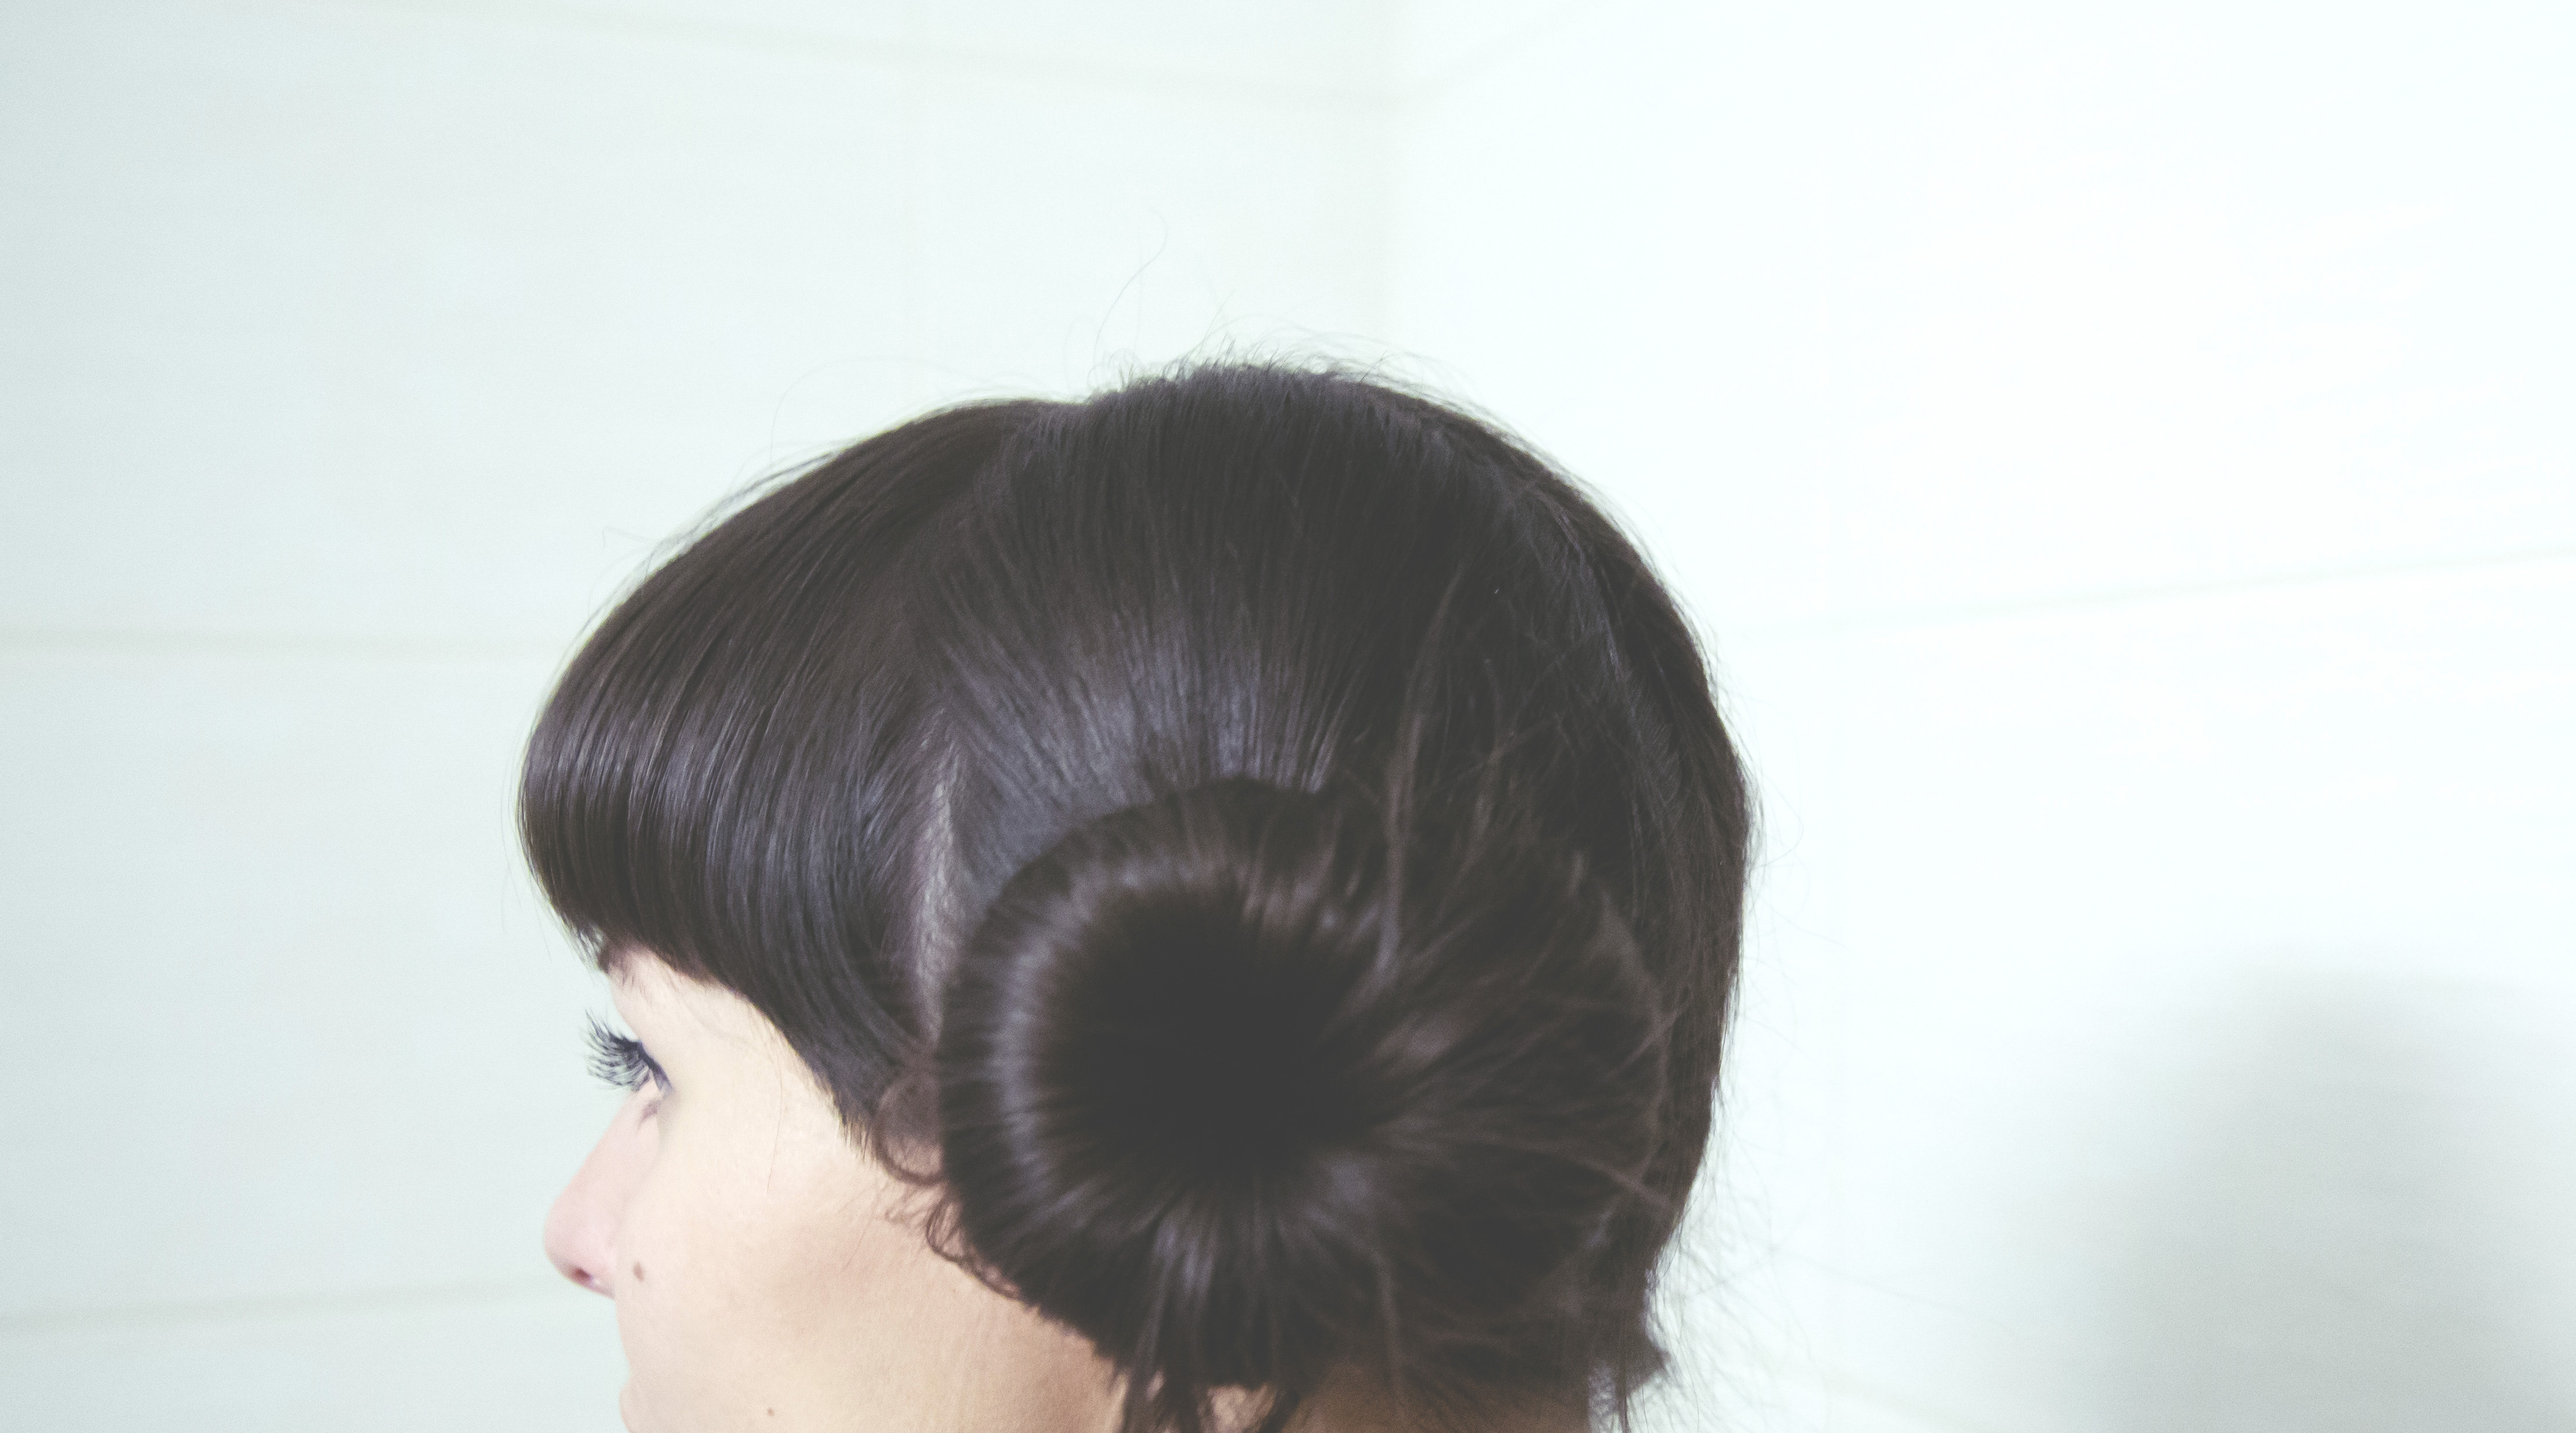
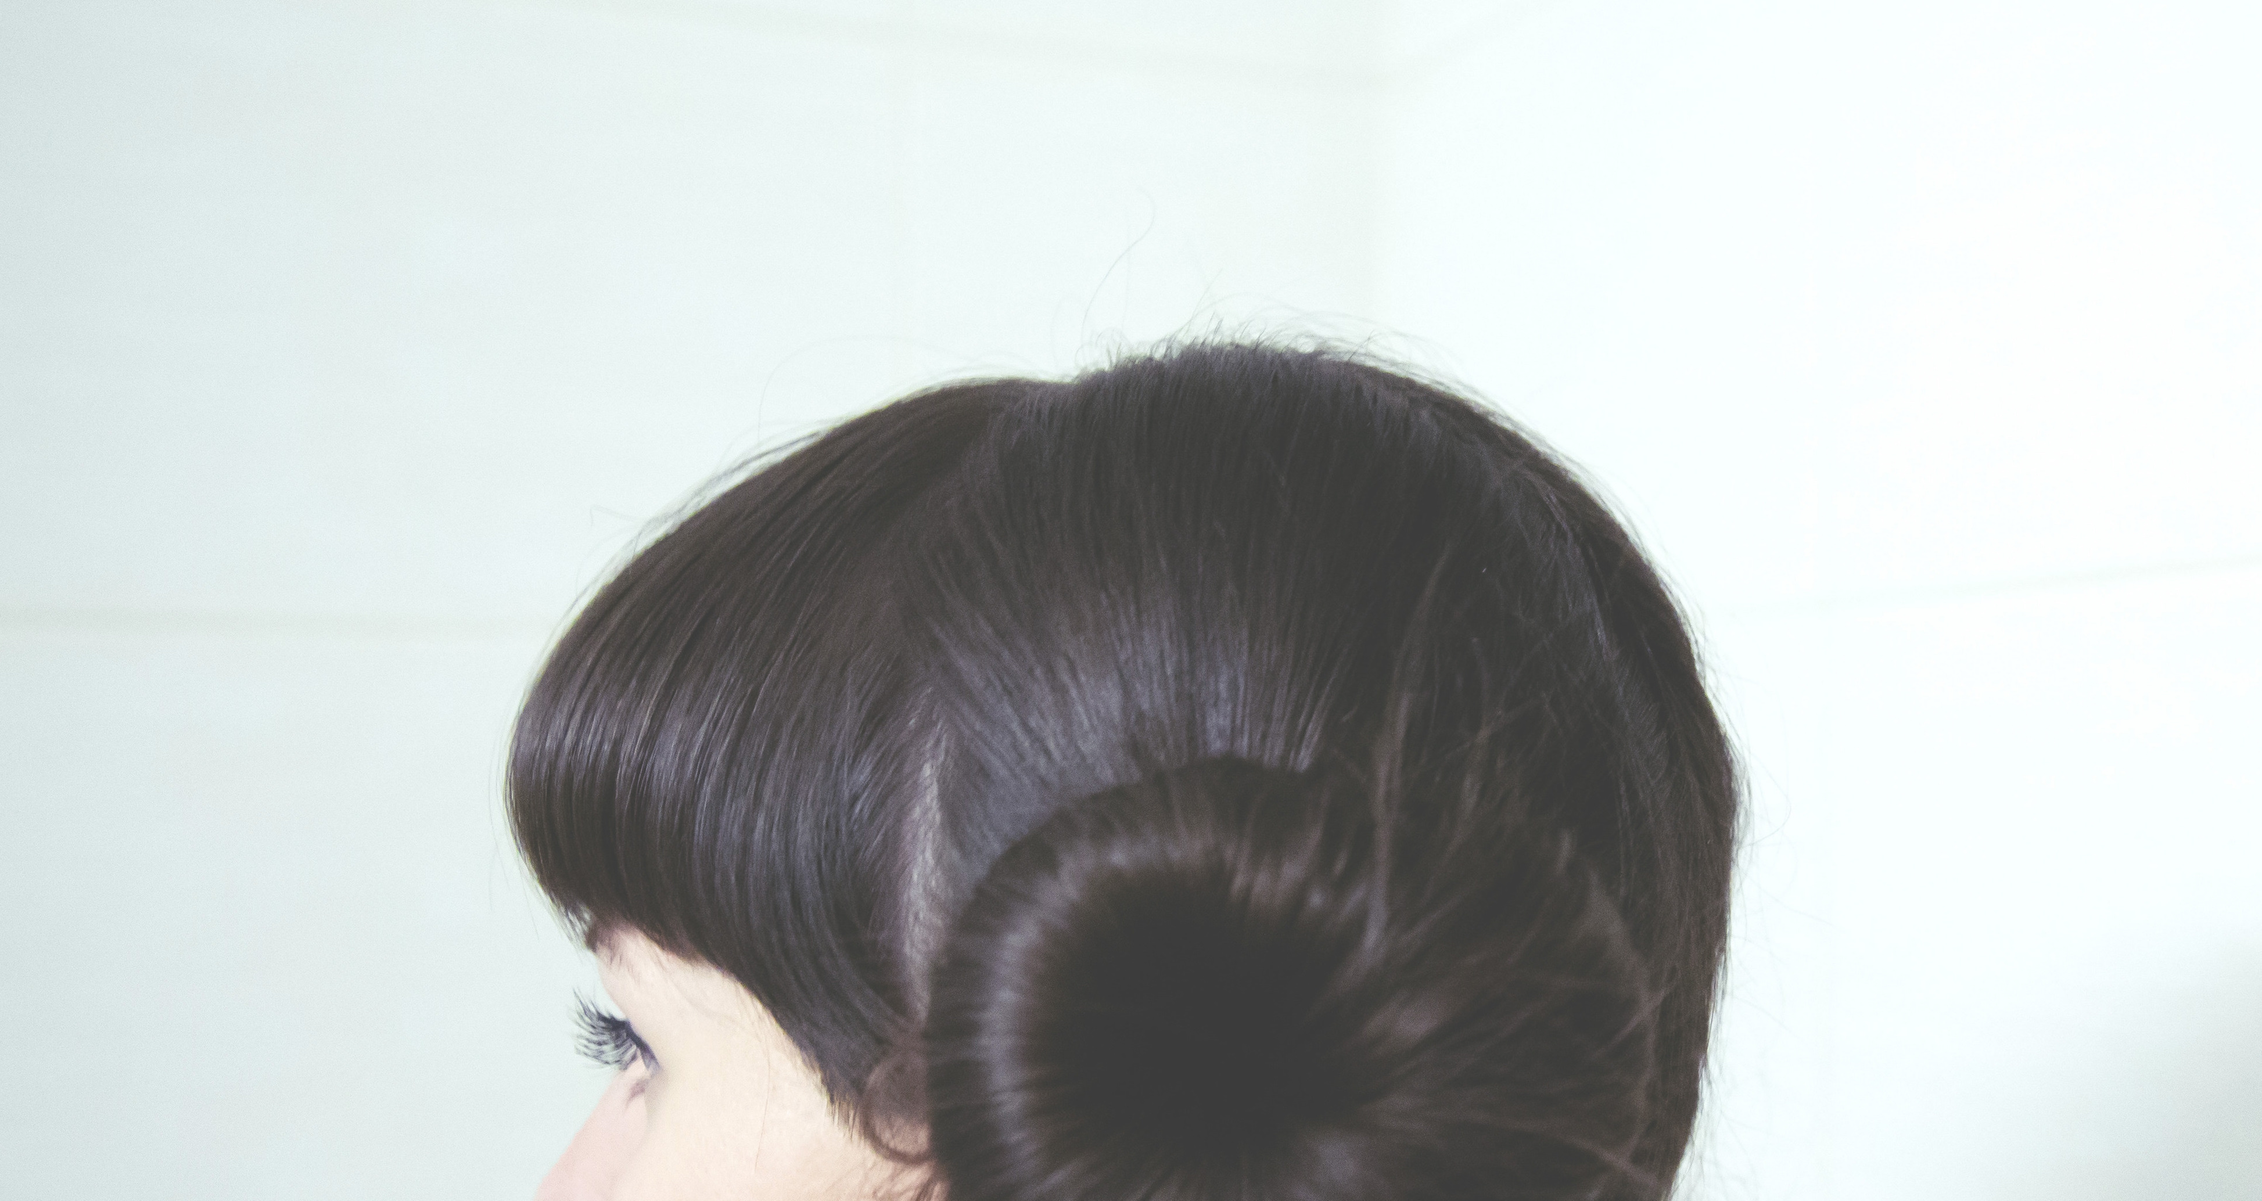
fixed up css on homepage incuding footer colour, background img, flex on paragraphs

Changed region(s): [[0.1864, 0.2476, 0.9633, 1.0], [0.4972, 0.8046, 0.5593, 0.8665]]

diff --git a/src/js/components/Home.jsx b/src/js/components/Home.jsx
@@ -4,20 +4,10 @@ var Home = React.createClass({
   render: function() {
     return (
       <div>
-        <h1>How It Works</h1>
-        <h2>What exactly are the “creative trades”?</h2>
-        <p>When we say creative trades, we mean hairstylists, makeup artists, 
-        personal stylists, costume designers, nail artists, and any other 
-        professionals that do manual, creative work. Or, in other words, the types
-        of professionals you’re likely to have on-set at a photoshoot. </p>
-        <h2>Why onSet?</h2>
-        <p>We noticed that the creative trades weren’t being effectively and 
-        professionally represented on the most common online CV sites and that 
-        many talented professionals end up using Instagram as an online portfolio. 
-        We’ve integrated Instagram so you can take your current online presence 
-        and upgrade it to include all your professional experiences and achievements. 
-        You work hard-- onSet lets you show just how experienced you are.</p>
-        <h2>Get Hired with onSet</h2>
+      <h2>How It Works</h2>
+      <div className="howitworks">
+        <div className="gethired">
+        <h3>Get Hired with onSet</h3>
         <p>onSet is built for professionals in creative trades who are looking for 
         freelance work and to network in their field. Not quite sure how it works? 
         If you’re looking to be hired, start by creating a profile, which will be 
@@ -30,7 +20,9 @@ var Home = React.createClass({
         your best work. We know LinkedIn doesn’t show what you’re capable of, and 
         Instagram isn’t the most professional portfolio on its own. With onSet you 
         get the best of both worlds-- a professional CV and visual portfolio.</p>
-        <h2>Hire Someone with onSet</h2>
+        </div>
+        <div className="hiresomeone">
+        <h3>Hire Someone with onSet</h3>
         <p>It can be tough to find talented, reliable professionals in the 
         creative trades if you don’t know how to get connected or who’s 
         up-and-coming talent. onSet lets you search professionals to see who’s 
@@ -49,6 +41,24 @@ var Home = React.createClass({
         just click the “Connect” button on their profile. You’ll have to sign in 
         with either Google or Instagram but, don’t worry, no other information is 
         needed! </p>
+        </div>
+        </div>
+        <hr />
+        <h2>Our Vision</h2>
+        <div className="ourvision">
+        <h3>What exactly are the “creative trades”?</h3>
+        <p>When we say creative trades, we mean hairstylists, makeup artists, 
+        personal stylists, costume designers, nail artists, and any other 
+        professionals that do manual, creative work. Or, in other words, the types
+        of professionals you’re likely to have on-set at a photoshoot. </p>
+        <h3>Why onSet?</h3>
+        <p>We noticed that the creative trades weren’t being effectively and 
+        professionally represented on the most common online CV sites and that 
+        many talented professionals end up using Instagram as an online portfolio. 
+        We’ve integrated Instagram so you can take your current online presence 
+        and upgrade it to include all your professional experiences and achievements. 
+        You work hard-- onSet lets you show just how experienced you are.</p>
+        </div>
     </div>);
   }
 });

diff --git a/src/js/components/Footer.jsx b/src/js/components/Footer.jsx
@@ -3,27 +3,31 @@ var React = require('react');
 var Footer = React.createClass({
   render: function() {
     return (
-      <nav className="footer">
-        <div className="footer-profiles">
+      <div className="footer">
+      <hr />
+      <div className="footer-nav">
+        <nav className="footer-profiles">
         <ul>
           <li>Browse Profiles</li>
           <li>Create/View Your Profile</li>
         </ul>
-        </div>
-        <div className="footer-about-us">
+        </nav>
+        <nav className="footer-about-us">
         <ul>
           <li>How It Works</li>
           <li>Our Vision</li>
           <li>FAQ</li>
         </ul>
-        </div>
-        <div className="footer-connect">
+        </nav>
+        <nav className="footer-connect">
         <ul>
           <li>Contact Us</li>
           <li>Careers</li>
         </ul>
-        </div>
-      </nav>
+        </nav>
+      </div>
+      <hr />
+      </div>
     );
   }
 });

diff --git a/public/css/styles.css b/public/css/styles.css
@@ -1,8 +1,54 @@
-.footer{
+
+/* Header*/
+.header {
+    display: flex;
+}
+.header h1 {
+    text-align: center;
+    color: #0d1b30;
+    font-weight: bold;
+}
+.header h2 {
+    text-align: center;
+    color: #152a4c;
+}
+.header-img{
+    background-image: url(../img/hairphoto.jpeg);
+	background-repeat: no-repeat;
+	background-size: 100% 100%;
+	background-position: center;
+
+	margin: 0 auto;
+
+	width: 100%;
+	padding-bottom: 36%
+}
+/* Home page*/
+.howitworks{
+    display: flex;
+}
+.hiresomeone, .gethired, .ourvision {
+    margin: 20px;
+}
+/* Footer*/
+.footer {
+    background-color: #1b2b46;
+}
+.footer-nav{
     display: flex;   
     flex-direction: row;
     justify-content: space-around;
+    padding-left: 50px;
+    padding-right: 50px;
 }
 .footer ul {
     list-style-type: none;
+}
+.footer li {
+    color: #FFF;
+}
+/*Logged in component*/
+.loggedinimg {
+    max-width: 50px;
+    border-radius: 25px
 }

diff --git a/public/index.html b/public/index.html
@@ -6,10 +6,15 @@
   <title>
     onSet - Creative Profiles for Creative Professionals
   </title>
+  
   <!-- Font Awesome script-->
   <script src="https://use.fontawesome.com/e3b6624313.js"></script>
+  
   <!-- CSS -->
   <link rel="stylesheet" type="text/css" href="/css/styles.css">
+  <link rel="stylesheet" href="https://maxcdn.bootstrapcdn.com/bootstrap/4.0.0-alpha.3/css/bootstrap.min.css" integrity="sha384-MIwDKRSSImVFAZCVLtU0LMDdON6KVCrZHyVQQj6e8wIEJkW4tvwqXrbMIya1vriY" crossorigin="anonymous">
+  <script src="https://maxcdn.bootstrapcdn.com/bootstrap/4.0.0-alpha.3/js/bootstrap.min.js" integrity="sha384-ux8v3A6CPtOTqOzMKiuo3d/DomGaaClxFYdCu2HPMBEkf6x2xiDyJ7gkXU0MWwaD" crossorigin="anonymous"></script>
+  
   <!-- Auth0Lock script -->
   <script src="https://cdn.auth0.com/js/lock-9.0.min.js"></script>
   <meta name="viewport" content="width=device-width, initial-scale=1, maximum-scale=1, user-scalable=0"/>

diff --git a/src/js/components/App.jsx b/src/js/components/App.jsx
@@ -54,9 +54,9 @@ var App = React.createClass({
     if (this.state.profile) {
       return (
       <div>
-        <Loggedin profile={this.state.profile} lock={this.state.lock} idToken={this.state.idToken} />
         <main>
           <Header component={Header} />
+          <Loggedin profile={this.state.profile} lock={this.state.lock} idToken={this.state.idToken} />
           {this.props.children}
           <hr/>
           <Footer component={Footer} />
@@ -70,10 +70,8 @@ var App = React.createClass({
       <Header lock={this.state.lock} />
       <main>
         {this.props.children}
-        <hr/>
         <Footer component={Footer} />
       </main>
-      <hr />
       </div>
       
       );

diff --git a/src/js/components/Header.jsx b/src/js/components/Header.jsx
@@ -8,12 +8,14 @@ var Header = React.createClass({
     },
     render: function() {
     return (
-      <div>
+      <div className="header">
+      <div className="header-img">
         <div className="login-box">
-            <button onClick={this.showLock}>Sign In</button>
+            <button className="btn btn-secondary btn-sm" onClick={this.showLock}>Sign In</button>
         </div>
         <h1>onSet</h1>
-        <img src="/img/hairphoto.jpeg"/>
+        <h2>build your profile. get hired.</h2>
+        </div>
       </div>
     );
   }

diff --git a/src/js/components/Loggedin.jsx b/src/js/components/Loggedin.jsx
@@ -9,10 +9,10 @@ var Loggedin = React.createClass({
   render: function() {
     if (this.props.profile) {
       return (
-        <div>
+        <div className="loggedinelements">
           <button onClick={this.logOut}>Log Out</button>
-            <img src={this.props.profile.picture} />
-            <h2>Welcome {this.props.profile.nickname}</h2>
+            <img className="loggedinimg" src={this.props.profile.picture} />
+            <h4>Welcome {this.props.profile.nickname}</h4>
         </div>
       );
     } else {
